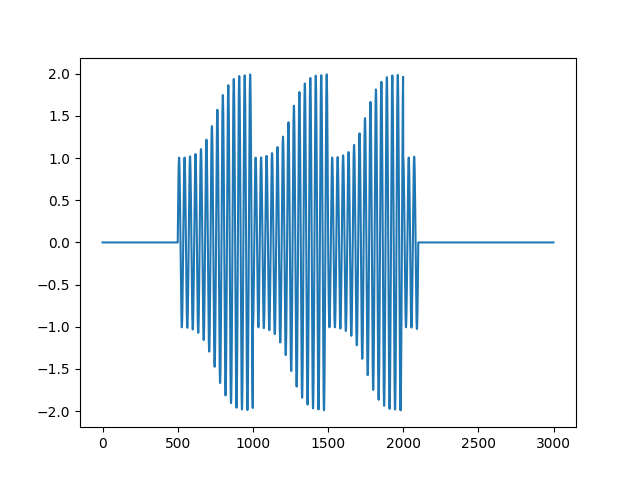
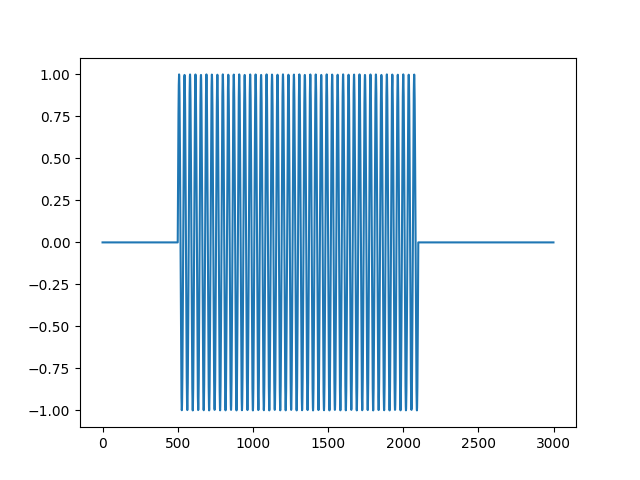
4章を修正

diff --git a/yyamamoto/chapter04/q05.py b/yyamamoto/chapter04/q05.py
@@ -1,20 +1,25 @@
 import numpy as np
 import matplotlib.pyplot as plt
 
+def Hamming(N):
+    n = np.arange(N)
+    w = 0.54 - 0.46 * np.cos(2*np.pi*n/(N-1))
+    return w
+
 def window(S, w):
     L = len(w)
     Q = L // S
-    m = np.arange(-(Q-1), Q-1)  # ファンシーインデックス
     w_s = np.zeros(L)
     for l in range(L):
         den = 0
-        for m in range(-(Q-1), Q-1):
+        for m in range(-(Q-1), Q):
             if 0 <= l - m * S & l - m * S < L:
                 den += w[l-m*S] ** 2
         w_s[l] = w[l] / den
     return w_s
 
 # 結果の確認
-# w = np.ones(6)
+# w = Hamming()
 # fig = plt.figure()
-# plt.plot(window(2, w))
+# plt.plot(window(500, w))
+# fig.savefig("./yyamamoto/chapter04/q05_graph.png")

diff --git a/yyamamoto/chapter04/q06.py b/yyamamoto/chapter04/q06.py
@@ -1,4 +1,5 @@
 import numpy as np
+import matplotlib.pyplot as plt
 from q05 import window
 
 def Hamming(N):
@@ -19,6 +20,11 @@ def istft(S, X):
         z[:,t] = np.fft.irfft(X[:,t])
     # 手順4
     w = window(S, Hamming(N))
+    # 合成窓をプロットして確認
+    # fig = plt.figure()
+    # plt.plot(w)
+    # fig.savefig("./yyamamoto/chapter04/graph.png")
+
     n = np.arange(N)    # ファンシーインデックス
     for t in range(T):
         x[t*S+n] = x[t*S+n] + w[n] * z[n,t]

diff --git a/yyamamoto/chapter04/q09.py b/yyamamoto/chapter04/q09.py
@@ -24,7 +24,7 @@ for i in range(1, 5):
     A = A.T
     P = P.T
     fig.add_subplot(1, 4, i)
-    plt.pcolormesh(np.log10(np.abs(chirp_stft) ** 2).T)
+    plt.pcolormesh(np.abs(chirp_stft) ** 2).T
     plt.title("L=" + str(L) + ", S=" + str(S))
 
 fig.savefig("./yyamamoto/chapter04/q09_graph.png")
